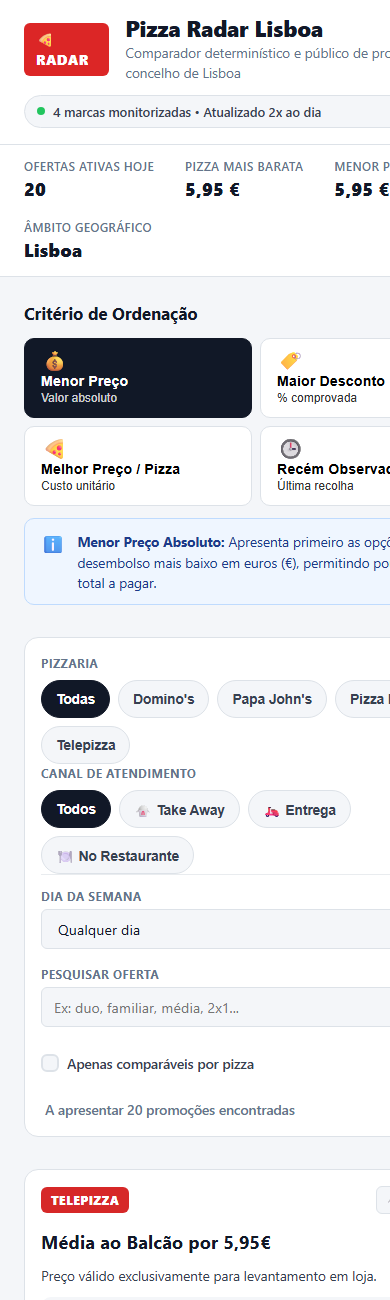
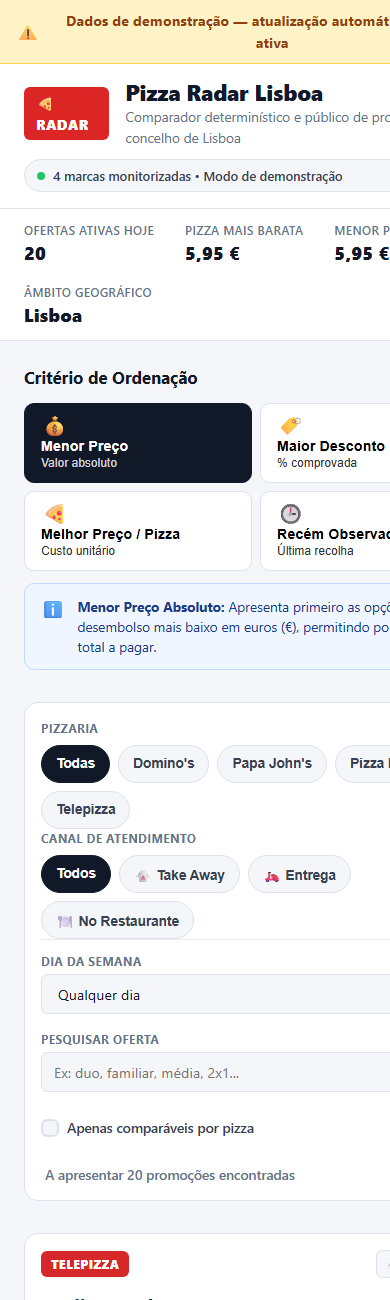
fix(ui): enforce demo mode disclaimer, fix fixture compositions and add regression tests (#11)

diff --git a/web/app.js b/web/app.js
@@ -76,6 +76,9 @@
     statMinPrice: document.getElementById('stat-min-price'),
     statUnitPrice: document.getElementById('stat-unit-price'),
     statLocation: document.getElementById('stat-location'),
+    dataModeBanner: document.getElementById('data-mode-banner'),
+    dataModeText: document.getElementById('data-mode-text'),
+    statusText: document.getElementById('status-text'),
   };
 
   // Inicialização
@@ -95,7 +98,9 @@
       const data = await response.json();
       state.allGroups = data.groups || [];
       state.stats = data.stats || {};
+      state.dataMode = data.data_mode || 'demo';
 
+      handleDataMode(state.dataMode);
       updateMetricsBanner(data);
       applyFiltersAndRender();
     } catch (err) {
@@ -108,6 +113,29 @@
         </div>
       `;
       elements.resultsCount.textContent = 'Erro ao carregar dados.';
+    }
+  }
+
+  // Tratamento do Modo de Dados (Demo vs Live)
+  function handleDataMode(mode) {
+    const isLive = mode === 'live';
+    if (elements.dataModeBanner) {
+      if (!isLive) {
+        elements.dataModeBanner.style.display = 'flex';
+        if (elements.dataModeText) {
+          elements.dataModeText.textContent = 'Dados de demonstração — atualização automática ainda não ativa';
+        }
+      } else {
+        elements.dataModeBanner.style.display = 'none';
+      }
+    }
+
+    if (elements.statusText) {
+      if (isLive) {
+        elements.statusText.textContent = '4 marcas monitorizadas • Atualizado 2x ao dia';
+      } else {
+        elements.statusText.textContent = '4 marcas monitorizadas • Modo de demonstração';
+      }
     }
   }
 

diff --git a/web/index.html b/web/index.html
@@ -10,6 +10,12 @@
 <body>
   <a href="#main-content" class="skip-link">Saltar para o conteúdo principal</a>
 
+  <!-- Banner de Modo de Dados -->
+  <div id="data-mode-banner" class="data-mode-banner" style="display: none;" role="status">
+    <span class="banner-icon" aria-hidden="true">⚠</span>
+    <span id="data-mode-text">Dados de demonstração — atualização automática ainda não ativa</span>
+  </div>
+
   <!-- Cabeçalho Principal -->
   <header class="site-header" role="banner">
     <div class="header-container">
@@ -22,7 +28,7 @@
       </div>
       <div class="header-status" aria-label="Estado da monitorização">
         <span class="status-indicator" aria-hidden="true"></span>
-        <span class="status-text">4 marcas monitorizadas • Atualizado 2x ao dia</span>
+        <span class="status-text" id="status-text">4 marcas monitorizadas</span>
       </div>
     </div>
   </header>
@@ -190,7 +196,7 @@
       <div class="footer-col">
         <h3 class="footer-heading">Arquitetura Zero-Cost</h3>
         <p class="footer-text">
-          Pipeline 100% determinístico executado 2x ao dia via GitHub Actions.
+          Pipeline determinístico com capacidade de execução periódica agendada via GitHub Actions.
           Zero chamadas a modelos de inteligência artificial em produção.
           Alojado na CDN global gratuita do Cloudflare Pages.
         </p>

diff --git a/web/styles.css b/web/styles.css
@@ -87,6 +87,26 @@ body {
   top: 16px;
 }
 
+/* Banner de Modo de Dados */
+.data-mode-banner {
+  background-color: #FEF3C7;
+  color: #92400E;
+  border-bottom: 1px solid #FCD34D;
+  padding: 10px 16px;
+  font-size: 0.9rem;
+  font-weight: 700;
+  display: flex;
+  align-items: center;
+  justify-content: center;
+  gap: 8px;
+  text-align: center;
+}
+
+.banner-icon {
+  font-size: 1.1rem;
+  flex-shrink: 0;
+}
+
 /* Focus Visible para Acessibilidade */
 :focus-visible {
   outline: 3px solid var(--color-border-focus);

diff --git a/tests/test_web_interface.py b/tests/test_web_interface.py
@@ -74,6 +74,92 @@ class TestWebInterfaceIntegrity(unittest.TestCase):
         self.assertGreater(desktop_png.stat().st_size, 10000, "desktop_view.png não pode estar vazio")
         self.assertGreater(mobile_png.stat().st_size, 10000, "mobile_view.png não pode estar vazio")
 
+    def test_demo_mode_displays_explicit_warning(self) -> None:
+        """Em modo demo, a interface deve exibir explicitamente o aviso no topo."""
+        json_path = WEB_DIR / "data" / "promotions.json"
+        with open(json_path, encoding="utf-8") as f:
+            data = json.load(f)
+        self.assertEqual(data.get("data_mode"), "demo", "O snapshot estático de desenvolvimento deve ter data_mode='demo'")
+
+        html = (WEB_DIR / "index.html").read_text(encoding="utf-8")
+        self.assertIn("data-mode-banner", html, "index.html deve conter o elemento do banner de modo de dados")
+        self.assertIn(
+            "Dados de demonstração — atualização automática ainda não ativa",
+            html,
+            "index.html deve conter o texto exato do aviso de modo de demonstração",
+        )
+
+        js = (WEB_DIR / "app.js").read_text(encoding="utf-8")
+        self.assertIn("handleDataMode", js)
+        self.assertIn("Dados de demonstração — atualização automática ainda não ativa", js)
+
+    def test_demo_mode_does_not_assert_automatic_updates(self) -> None:
+        """Em modo demo, o cabeçalho não pode afirmar que está atualizado 2x ao dia."""
+        html = (WEB_DIR / "index.html").read_text(encoding="utf-8")
+        # O HTML estático inicial não pode conter a alegação de 2x ao dia no cabeçalho
+        header_part = html[html.find('<header'):html.find('</header>')]
+        self.assertNotIn(
+            "Atualizado 2x ao dia",
+            header_part,
+            "O cabeçalho estático não pode afirmar 'Atualizado 2x ao dia' no modo demo",
+        )
+
+        js = (WEB_DIR / "app.js").read_text(encoding="utf-8")
+        # Confirma que só em modo 'live' é exibido 'Atualizado 2x ao dia'
+        self.assertIn("if (isLive)", js)
+
+    def test_segundas_a_dobrar_not_interpreted_as_two_pizzas(self) -> None:
+        """A promoção 'Segundas a Dobrar' é um desconto percentual e não pode ser tratada como 2 pizzas."""
+        json_path = WEB_DIR / "data" / "promotions.json"
+        with open(json_path, encoding="utf-8") as f:
+            data = json.load(f)
+
+        segundas_group = next(
+            (g for g in data["groups"] if "SEGUNDAS A DOBRAR" in g.get("title", "")),
+            None,
+        )
+        self.assertIsNotNone(segundas_group, "Grupo SEGUNDAS A DOBRAR deve existir na fixture")
+        self.assertIsNone(segundas_group.get("pizza_count"), "pizza_count de SEGUNDAS A DOBRAR deve ser null")
+        self.assertEqual(segundas_group.get("pizza_size"), "UNKNOWN", "pizza_size de SEGUNDAS A DOBRAR deve ser UNKNOWN")
+        self.assertFalse(
+            segundas_group.get("is_comparable_for_unit_price"),
+            "SEGUNDAS A DOBRAR não pode ter is_comparable_for_unit_price=True",
+        )
+        self.assertIsNone(
+            segundas_group.get("min_price_per_pizza_cents"),
+            "min_price_per_pizza_cents deve ser null para SEGUNDAS A DOBRAR",
+        )
+
+    def test_menu_familia_grandes_has_two_large_pizzas(self) -> None:
+        """MENU FAMÍLIA GRANDES que comprova 2 pizzas grandes deve usar LARGE e nunca MEDIUM."""
+        json_path = WEB_DIR / "data" / "promotions.json"
+        with open(json_path, encoding="utf-8") as f:
+            data = json.load(f)
+
+        familia_group = next(
+            (g for g in data["groups"] if "MENU FAMÍLIA GRANDES" in g.get("title", "")),
+            None,
+        )
+        self.assertIsNotNone(familia_group, "Grupo MENU FAMÍLIA GRANDES deve existir na fixture")
+        self.assertEqual(familia_group.get("pizza_count"), 2, "pizza_count deve ser 2")
+        self.assertEqual(familia_group.get("pizza_size"), "LARGE", "pizza_size deve ser LARGE")
+        self.assertNotEqual(familia_group.get("pizza_size"), "MEDIUM", "pizza_size nunca pode ser MEDIUM")
+        self.assertTrue(familia_group.get("is_comparable_for_unit_price"), "Deve ser comparável para preço unitário")
+        self.assertEqual(familia_group.get("min_price_per_pizza_cents"), 1350)
+
+    def test_unproven_offers_excluded_from_best_unit_price(self) -> None:
+        """Ofertas sem contagem comprovada não podem entrar no ranking BEST_UNIT_PRICE."""
+        json_path = WEB_DIR / "data" / "promotions.json"
+        with open(json_path, encoding="utf-8") as f:
+            data = json.load(f)
+
+        for g in data["groups"]:
+            if not g.get("is_comparable_for_unit_price"):
+                self.assertIsNone(
+                    g.get("min_price_per_pizza_cents"),
+                    f"Oferta não comparável {g.get('persistent_id')} não pode ter min_price_per_pizza_cents",
+                )
+
 
 if __name__ == "__main__":
     unittest.main()
